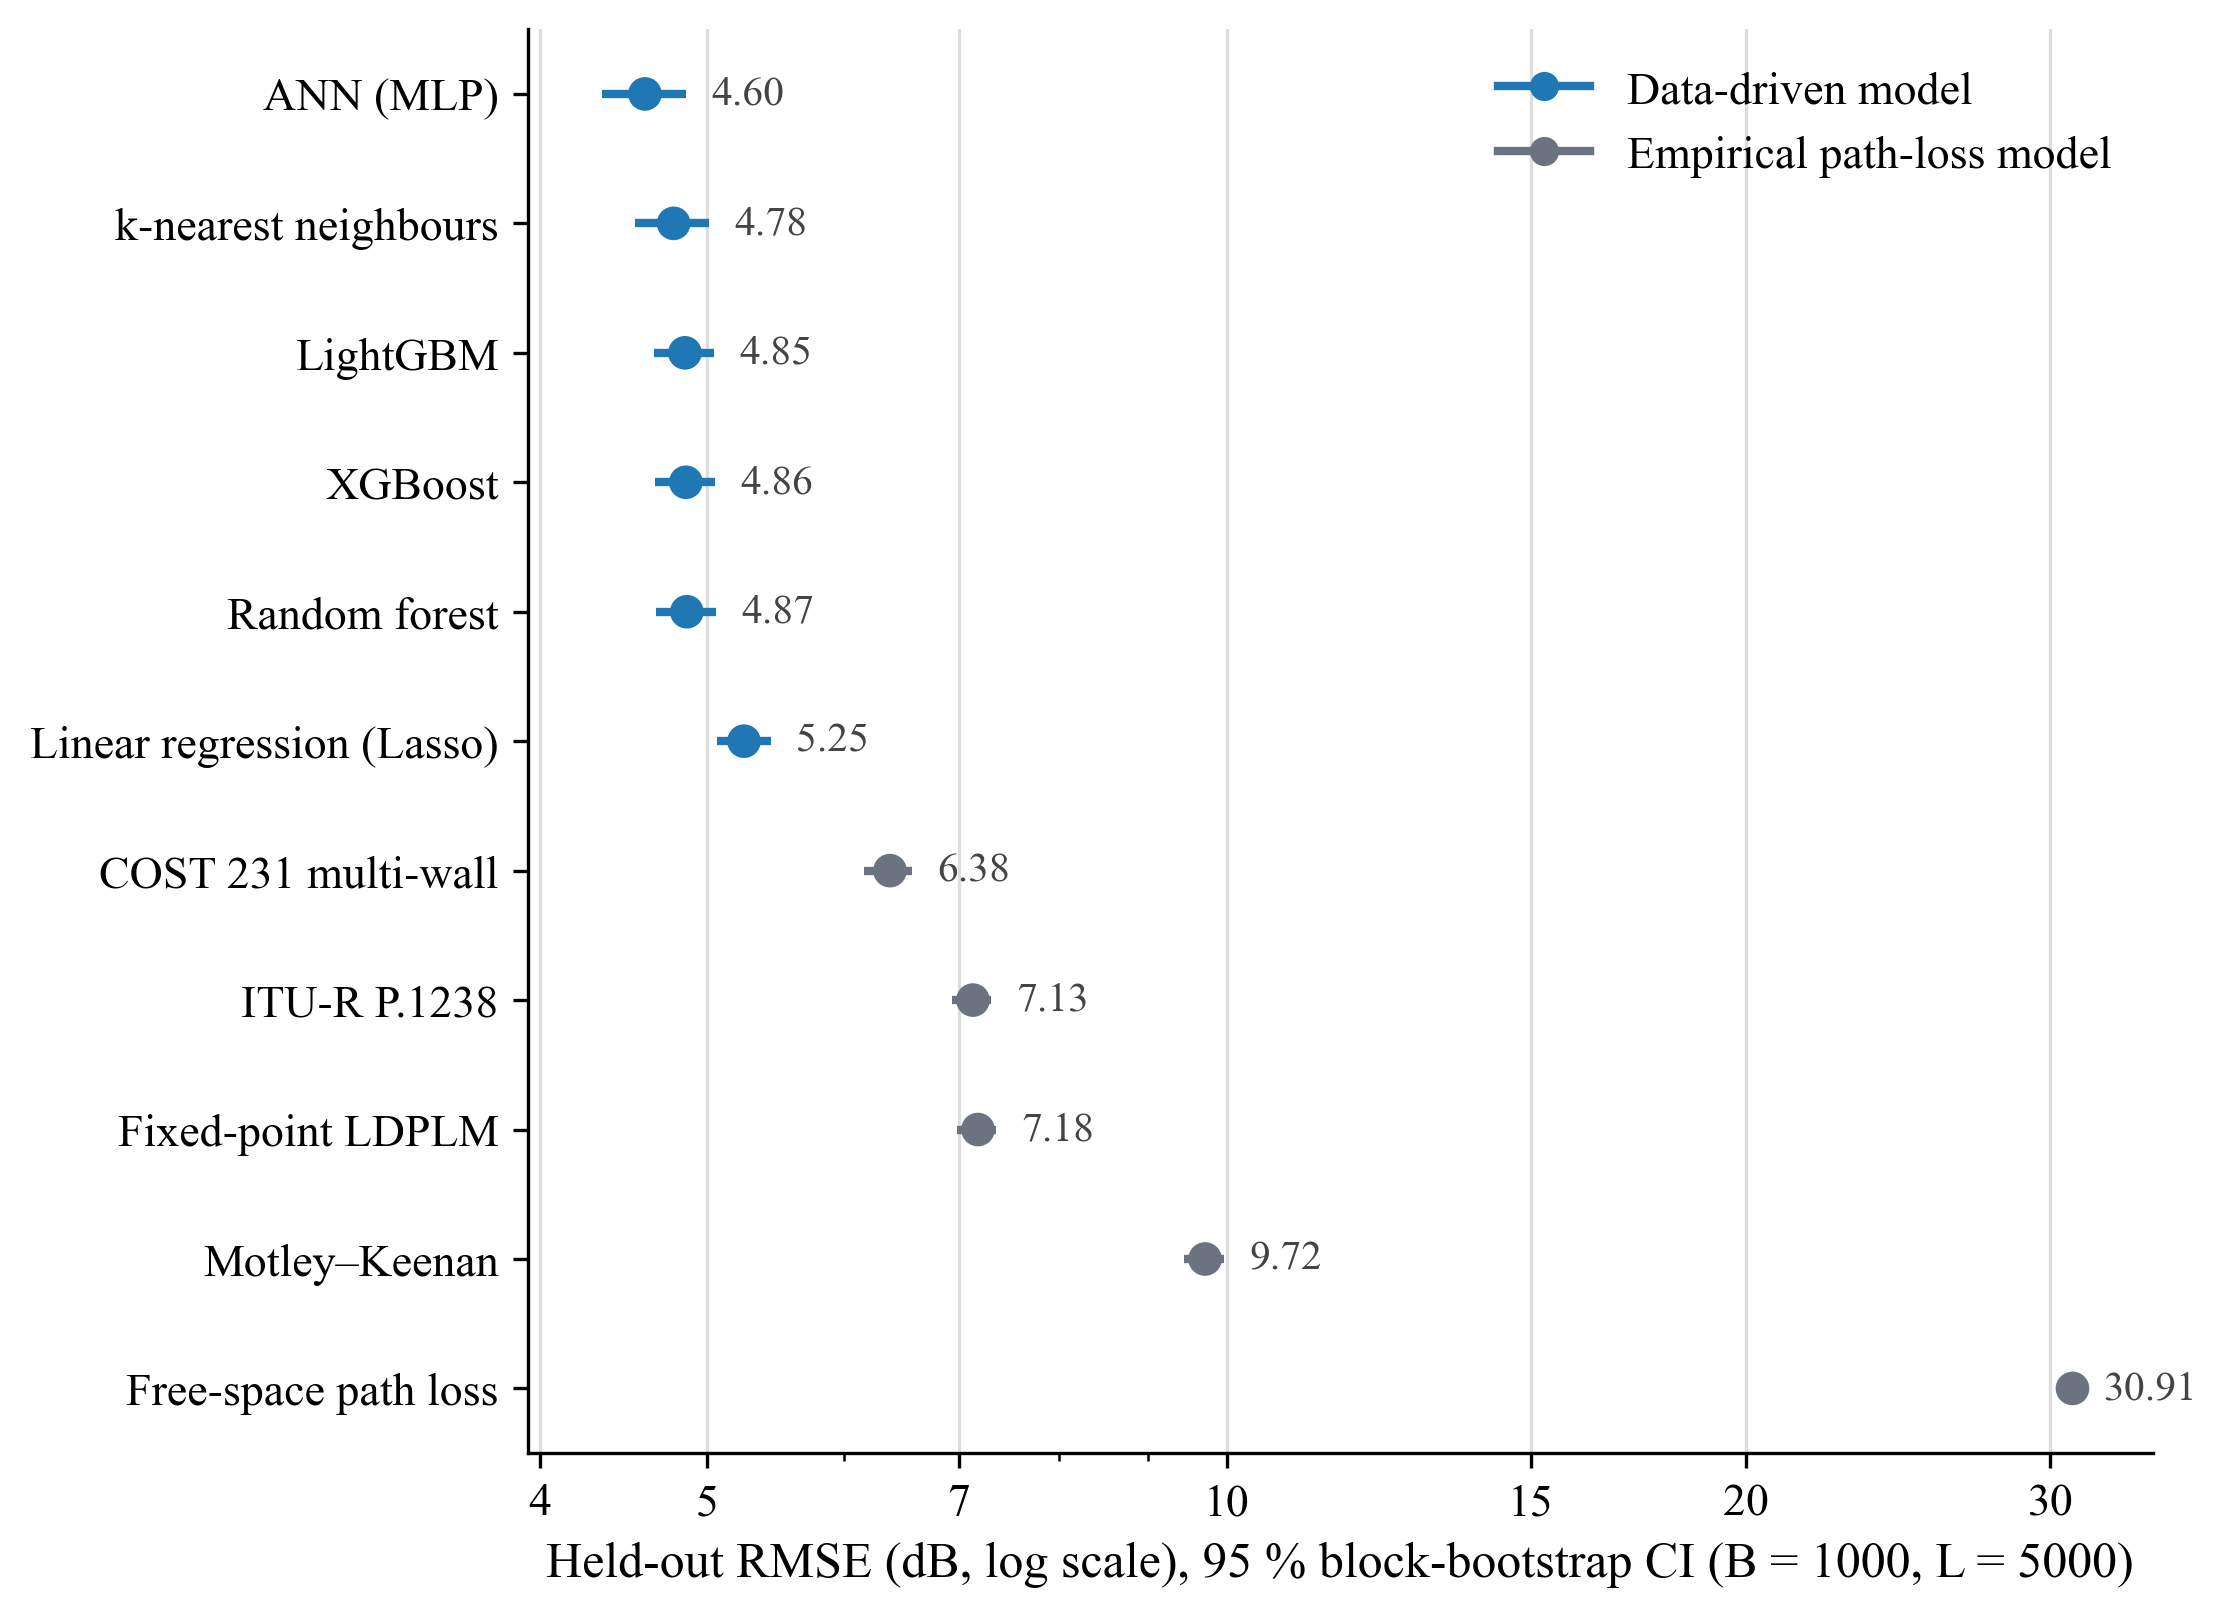
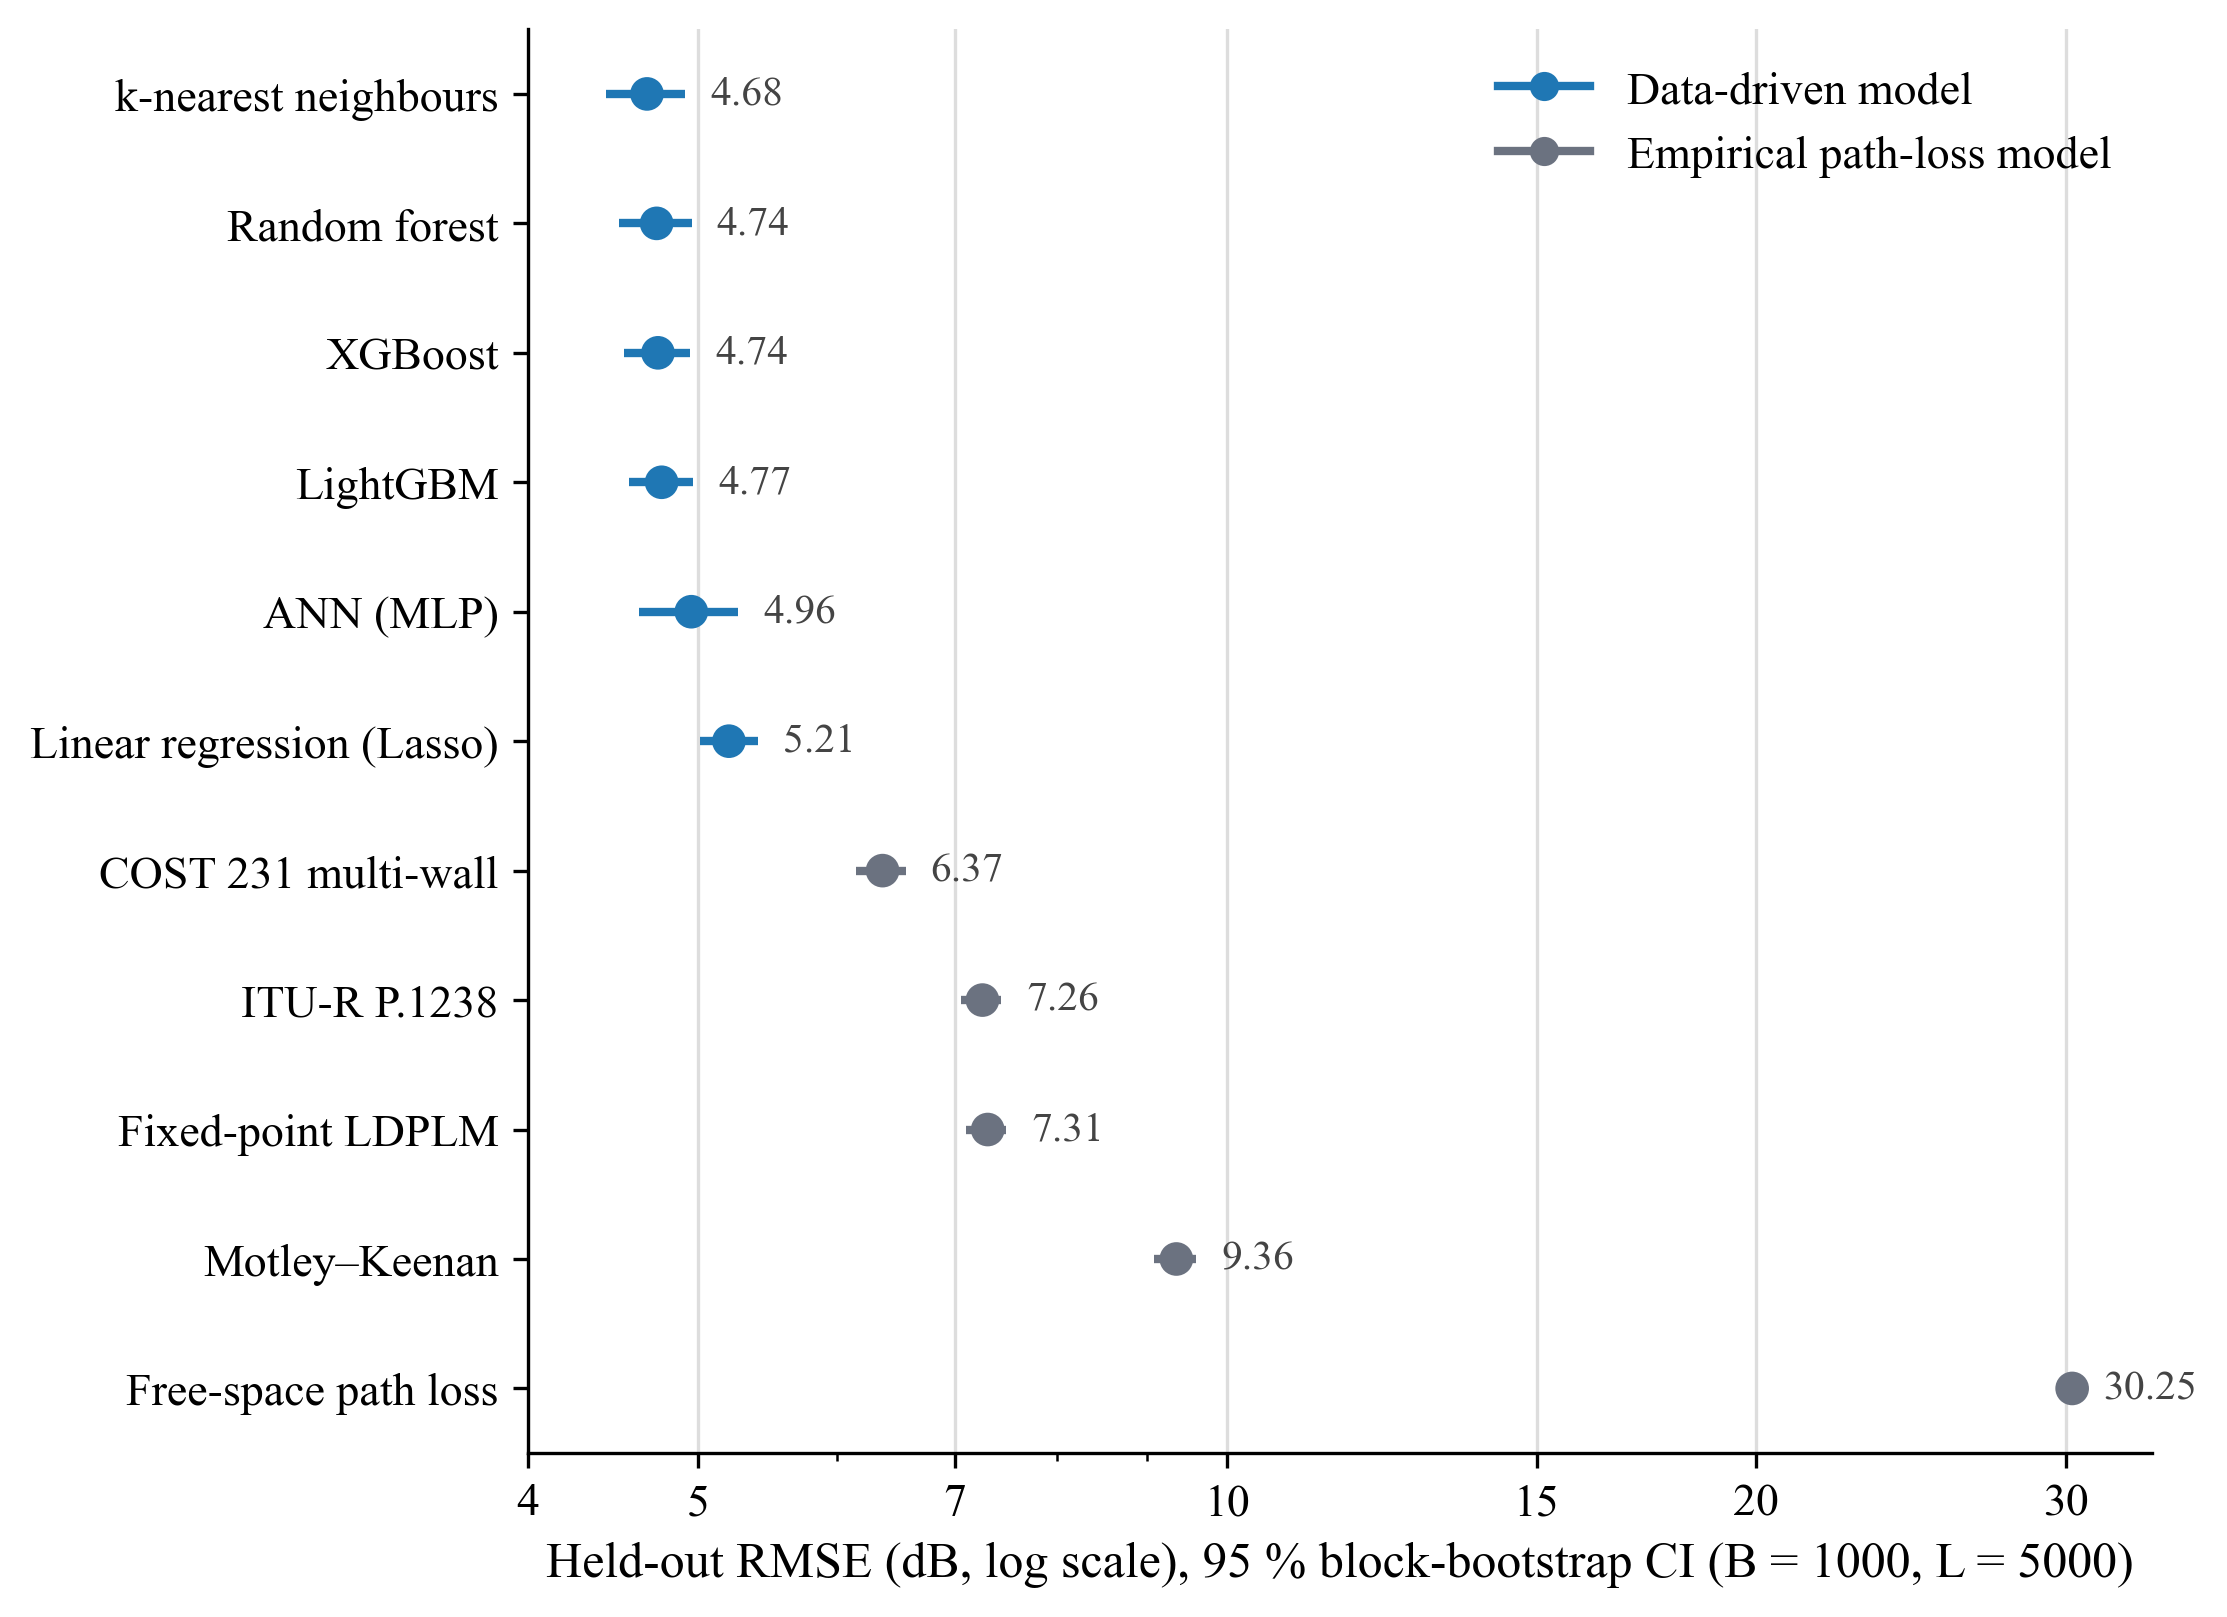
22: the LaTeX tables and the README figure regenerated on version 4 of the dataset

diff --git a/Tables/hyperparameters.tex b/Tables/hyperparameters.tex
@@ -7,16 +7,16 @@
 Model & Selected setting \\
 \midrule
 static: Linear regression (Lasso) & alpha 0.3728 \\
-static: Random forest & n\_estimators 358, max\_depth 3, min\_samples\_split 176, min\_samples\_leaf 17, max\_features 0.5383, max\_samples 0.8202 \\
-static: XGBoost & n\_estimators 397, max\_depth 1, learning\_rate 0.02231, min\_child\_weight 54.35, gamma 3.929, subsample 0.6781, colsample\_bytree 0.933, reg\_alpha 0.0001, reg\_lambda 20 \\
-static: LightGBM & n\_estimators 440, num\_leaves 95, max\_depth 1, learning\_rate 0.02033, min\_child\_samples 3031, min\_child\_weight 30, subsample 0.7802, colsample\_bytree 0.5963, reg\_alpha 500, reg\_lambda 0.003914 \\
-static: k-nearest neighbours & n\_neighbors 30677, weights distance, metric manhattan, scaler StandardScaler, power transform none \\
-static: ANN (multilayer perceptron) & hidden layers [12, 6], L2 0.0001, dropout 0.1, learning rate 0.001, parameters 259, final ensemble 30 seeds \\
-history (rungs H1 to H7): Random forest & max\_depth 27, max\_features 0.565, max\_samples 1, min\_samples\_leaf 5 \\
-history (rungs H1 to H7): XGBoost & colsample\_bytree 0.7659, learning\_rate 0.01754, max\_depth 9, min\_child\_weight 205.7, n\_estimators 1216, reg\_lambda 0.863, subsample 0.8023 \\
+static: Random forest & n\_estimators 300, max\_depth 7, min\_samples\_split 1000, min\_samples\_leaf 40, max\_features 0.3, max\_samples 0.7 \\
+static: XGBoost & n\_estimators 150, max\_depth 1, learning\_rate 0.06627, min\_child\_weight 25.01, gamma 0.001, subsample 0.9, colsample\_bytree 1, reg\_alpha 0.0001, reg\_lambda 0.001 \\
+static: LightGBM & n\_estimators 352, num\_leaves 96, max\_depth 1, learning\_rate 0.0254, min\_child\_samples 4440, min\_child\_weight 30, subsample 0.6, colsample\_bytree 0.7965, reg\_alpha 500, reg\_lambda 5.812 \\
+static: k-nearest neighbours & n\_neighbors 30780, weights distance, metric manhattan, scaler StandardScaler, power transform none \\
+static: ANN (multilayer perceptron) & hidden layers [32, 16], L2 0, dropout 0, learning rate 0.001, parameters 1009, final ensemble 30 seeds \\
+history (rungs H1 to H7): Random forest & max\_depth 17, max\_features 0.7132, max\_samples 1, min\_samples\_leaf 75 \\
+history (rungs H1 to H7): XGBoost & colsample\_bytree 0.8698, learning\_rate 0.0249, max\_depth 8, min\_child\_weight 65.38, n\_estimators 365, reg\_lambda 0.2761, subsample 0.8528 \\
 history (rungs H1 to H7): LightGBM & colsample\_bytree 0.9062, learning\_rate 0.01673, min\_child\_samples 606, n\_estimators 1244, num\_leaves 141, reg\_lambda 0.1724, subsample 0.9023 \\
-history (rungs H1 to H7): ANN (multilayer perceptron) & hidden layers [32, 16], final ensemble 3 seeds \\
-history (rungs H1 to H7): k-nearest neighbours & metric manhattan, n\_neighbors 45, weights distance \\
+history (rungs H1 to H7): ANN (multilayer perceptron) & hidden layers [64, 32, 16], final ensemble 3 seeds \\
+history (rungs H1 to H7): k-nearest neighbours & metric manhattan, n\_neighbors 44, weights distance \\
 public data, Medellín: LightGBM & colsample\_bytree 0.6172, learning\_rate 0.01128, min\_child\_samples 5, n\_estimators 1245, num\_leaves 42, reg\_lambda 24.67, subsample 0.7633 \\
 public data, Medellín: LightGBM, static inputs & colsample\_bytree 0.8691, learning\_rate 0.02807, min\_child\_samples 55, n\_estimators 649, num\_leaves 27, reg\_lambda 0.2024, subsample 0.9735 \\
 public data, Medellín: LightGBM, static inputs + SNR of the same packet & colsample\_bytree 0.569, learning\_rate 0.01, min\_child\_samples 5, n\_estimators 1500, num\_leaves 27, reg\_lambda 30, subsample 0.6 \\

diff --git a/Tables/dataset_per_device.tex b/Tables/dataset_per_device.tex
@@ -6,12 +6,12 @@
 \toprule
 Device & Room & LoS & Distance (m) & Brick walls & Wood walls & Packets & of which hold-out & Median interval (s) & Path loss mean (dB) & sd (dB) \\
 \midrule
-ED0 & Hardware lab & LoS & 10 & 0 & 0 & 444,310 & 89,116 & 60.0 & 65.3 & 5.7 \\
-ED1 & Open lab & NLoS & 8 & 1 & 0 & 439,364 & 88,573 & 60.0 & 70.6 & 7.2 \\
-ED2 & Office & NLoS & 23 & 0 & 2 & 444,929 & 89,123 & 60.0 & 86.6 & 6.1 \\
-ED3 & Office & NLoS & 18 & 1 & 2 & 437,903 & 87,215 & 60.0 & 84.5 & 5.7 \\
-ED4 & Server room & NLoS & 37 & 0 & 5 & 439,374 & 88,648 & 60.0 & 100.6 & 4.7 \\
-ED5 & Kitchen & NLoS & 40 & 2 & 2 & 454,394 & 89,380 & 60.0 & 112.6 & 5.3 \\
+ED0 & Hardware lab & LoS & 10 & 0 & 0 & 444,310 & 89,116 & 60.0 & 64.6 & 5.6 \\
+ED1 & Open lab & NLoS & 8 & 1 & 0 & 439,364 & 88,573 & 60.0 & 70.0 & 7.1 \\
+ED2 & Office & NLoS & 23 & 0 & 2 & 444,929 & 89,123 & 60.0 & 85.9 & 6.0 \\
+ED3 & Office & NLoS & 18 & 1 & 2 & 437,903 & 87,215 & 60.0 & 83.7 & 5.6 \\
+ED4 & Server room & NLoS & 37 & 0 & 5 & 439,374 & 88,648 & 60.0 & 100.0 & 4.6 \\
+ED5 & Kitchen & NLoS & 40 & 2 & 2 & 454,394 & 89,380 & 60.0 & 112.1 & 5.1 \\
 \bottomrule
 \end{tabular}
 \end{table}
